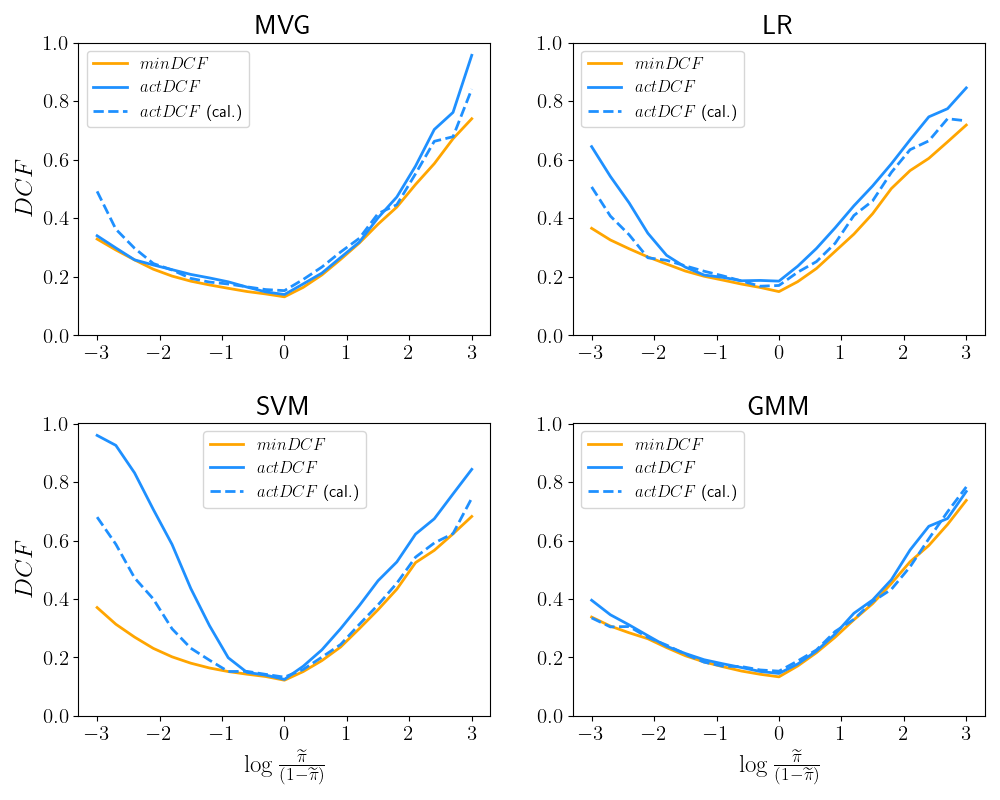
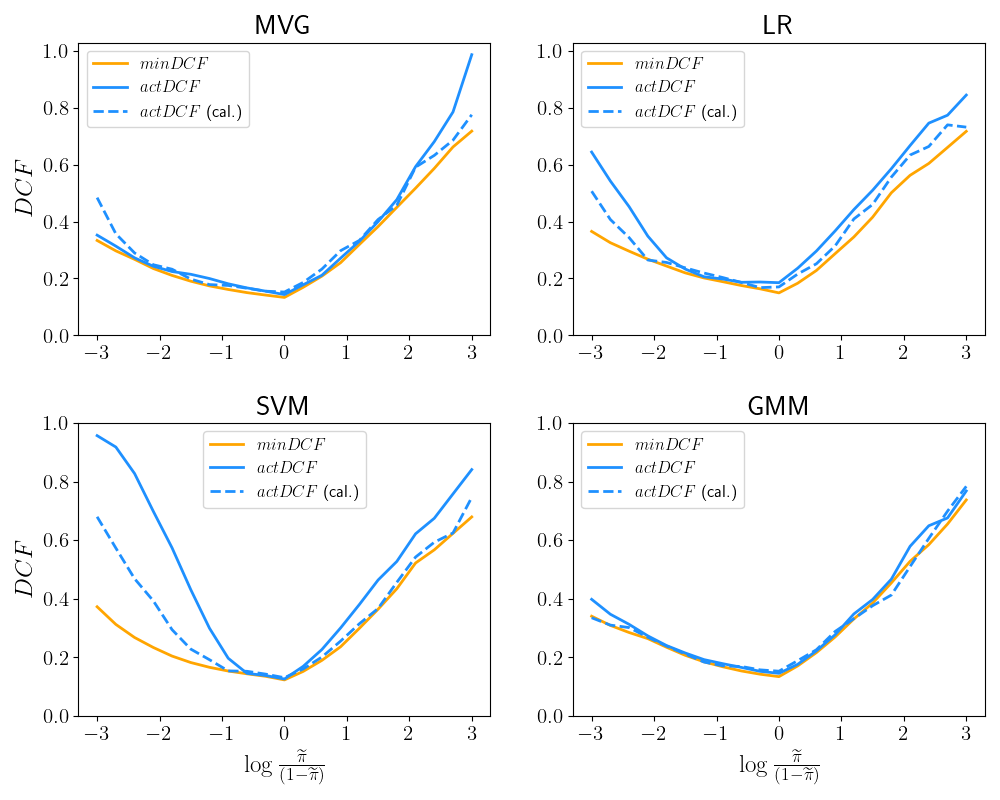
Fixed bayes error plots

diff --git a/utils/plot_utils.py b/utils/plot_utils.py
@@ -731,7 +731,7 @@ def bayes_error_plots2(classifiers, after=False):
     fig.tight_layout()
     fig.subplots_adjust(hspace=0.3, wspace=0.2)
     fig.savefig(fname=f"outputs/bayes_error_plots/bep_{fname}")
-    plt.show()
+    fig.show()
 
 
 def plot_lambda_evaluation():
@@ -1041,41 +1041,201 @@ def plot_tuningGMM_evaluation():
         "ytick.labelsize": 20,
     })
 
-    fig, axs = plt.subplots(3, 2)
-    fig.set_size_inches(12, 10)
+    fig1, axs1 = plt.subplots(3, 2)
+    fig1.set_size_inches(12, 10)
+
+    fig2, axs2 = plt.subplots(3, 2)
+    fig2.set_size_inches(12, 10)
+
+    y = np.arange(0.0, 1.1, 0.2)
+
+    axs = [axs1, axs2]
+
+    for i, (variant, m) in enumerate(itertools.product(variants, m_values)):
+        for j, (p, r) in enumerate(itertools.product(pis, raw)):
+            pp = '' if p == 0.5 else "_pi" + str(p).replace('.', '-')
+            DCFs = np.load(f"../simulations/GMM/GMM_rawFeature-{r}_PCA{m}_{variant}{pp}.npy")
+            DCFs_evaluation = np.load(f"../simulations/evaluation/GMM/GMM_rawFeature-{r}_PCA{m}_{variant}_pi{str(p).replace('.', '-')}.npy")
+            label = r"$\widetilde{\pi}=$" + f"{p}, {'raw' if r else 'gau'}"
+            axs[int(r)][i // 2, i % 2].plot(components_values, DCFs, label=label, color=colors6[j], linewidth=3)
+            axs[int(r)][i // 2, i % 2].plot(components_values, DCFs_evaluation, linestyle="dashed", label=label+"(eval.)", color=colors6[j], linewidth=3)
+            axs[int(r)][i // 2, i % 2].set_xscale('log', base=2)
+            axs[int(r)][i // 2, i % 2].set_xticks(components_values)
+            axs[int(r)][i // 2, i % 2].set_yticks(y)
+            if i // 2 == 2:
+                axs[int(r)][i // 2, i % 2].set_xlabel("Number of components")
+            if i % 2 == 0:
+                axs[int(r)][i // 2, i % 2].set_ylabel(r"$DCF$")
+            v = 'tied full-cov' if variant == 'tied' else variant
+
+            pca = f"PCA ($m={m}$)" if m is not None else "no PCA"
+            axs[int(r)][i // 2, i % 2].set_title(rf"{v}, {pca}", size=20)
+
+        # axs[i // 2, i % 2].legend(loc='upper right', framealpha=0.5)
+
+    fig1.tight_layout()
+    fig1.show()
+    fig1.savefig(fname="../outputs/evaluation/tuning_GMM2_gau", dpi=180)
+
+    fig2.tight_layout()
+    fig2.show()
+    fig2.savefig(fname="../outputs/evaluation/tuning_GMM2_raw", dpi=180)
+
+    label_params1 = axs1[0, 0].get_legend_handles_labels()
+    figl1, axl1 = plt.subplots(figsize=(6.5, 10))
+    axl1.axis(False)
+    axl1.legend(*label_params1, loc="center", bbox_to_anchor=(0.5, 0.5), prop={"size": 40})
+    figl1.show()
+    figl1.savefig(fname="../outputs/evaluation/tuning_GMM_legend_gau")
+
+    label_params2 = axs2[0, 0].get_legend_handles_labels()
+    figl2, axl2 = plt.subplots(figsize=(6.5, 10))
+    axl2.axis(False)
+    axl2.legend(*label_params2, loc="center", bbox_to_anchor=(0.5, 0.5), prop={"size": 40})
+    figl2.show()
+    figl2.savefig(fname="../outputs/evaluation/tuning_GMM_legend_raw")
+
+
+def plot_tuningGMM_evaluation3():
+    variants = ['full-cov', 'diag', 'tied']
+    raw = [True, False]
+    m_values = [7]
+    pis = [0.5, 0.1, 0.9]
+    components_values = [2 ** i for i in range(9)]
+    plt.rcParams.update({
+        "text.usetex": True,
+        "font.family": "sans-serif",
+        "font.sans-serif": ["Computer Modern Serif"],
+        "axes.titlesize": 30,
+        "axes.labelsize": 20,
+        "legend.fontsize": 20,
+        "xtick.labelsize": 20,
+        "ytick.labelsize": 20,
+    })
+
+    fig1, axs = plt.subplots(3, 2)
+    fig1.set_size_inches(12, 10)
+
     y = np.arange(0.0, 1.1, 0.2)
 
     for i, (variant, m) in enumerate(itertools.product(variants, m_values)):
         for j, (p, r) in enumerate(itertools.product(pis, raw)):
             pp = '' if p == 0.5 else "_pi" + str(p).replace('.', '-')
             DCFs = np.load(f"../simulations/GMM/GMM_rawFeature-{r}_PCA{m}_{variant}{pp}.npy")
-            DCFs_evaluation = np.load(f"../simulations/evaluation/GMM/GMM_rawFeature-{r}_PCA{m}_{variant}{pp}.npy")
-            label = r"$\widetilde{\pi}=$" + f"{p}, {'raw' if r else 'gau'}"
-            axs[i // 2, i % 2].plot(components_values, DCFs, label=label, color=colors6[j], linewidth=3)
-            axs[i // 2, i % 2].plot(components_values, DCFs_evaluation, linestyle="dashed", label=label+"(eval.)", color=colors6[j], linewidth=3)
-            axs[i // 2, i % 2].set_xscale('log', base=2)
-            axs[i // 2, i % 2].set_xticks(components_values)
-            axs[i // 2, i % 2].set_yticks(y)
+            DCFs_evaluation = np.load(f"../simulations/evaluation/GMM/GMM_rawFeature-{r}_PCA{m}_{variant}_pi{str(p).replace('.', '-')}.npy")
+            label = r"$\widetilde{\pi}=$" + f"{p} "
+            axs[i, 1-int(r)].plot(components_values, DCFs, label=label, color=colors3[j//2], linewidth=3)
+            axs[i, 1-int(r)].plot(components_values, DCFs_evaluation, linestyle="dashed", label=label+"(eval.)", color=colors3[j//2], linewidth=3)
+            axs[i, 1-int(r)].set_xscale('log', base=2)
+            axs[i, 1-int(r)].set_xticks(components_values)
+            axs[i, 1-int(r)].set_yticks(y)
             if i // 2 == 2:
-                axs[i // 2, i % 2].set_xlabel("Number of components")
-
+                axs[i, 1-int(r)].set_xlabel("Number of components")
+            if i % 2 == 0:
+                axs[i, 1-int(r)].set_ylabel(r"$DCF$")
             v = 'tied full-cov' if variant == 'tied' else variant
 
             pca = f"PCA ($m={m}$)" if m is not None else "no PCA"
-            axs[i // 2, i % 2].set_title(rf"{v}, {pca}", size=20)
+            axs[i, 1-int(r)].set_title(rf"{v}, {pca}, {'raw' if r else 'gau'}", size=20)
 
         # axs[i // 2, i % 2].legend(loc='upper right', framealpha=0.5)
 
-    fig.tight_layout()
-    # plt.show()
-    fig.savefig(fname="../outputs/evaluation/tuning_GMM2", dpi=180)
+    fig1.tight_layout()
+    fig1.show()
+    fig1.savefig(fname="../outputs/evaluation/tuning_GMM2_PCA7", dpi=180)
 
-    label_params = axs[0, 0].get_legend_handles_labels()
-    figl, axl = plt.subplots(figsize=(6.5, 5))
-    axl.axis(False)
-    axl.legend(*label_params, loc="center", bbox_to_anchor=(0.5, 0.5), prop={"size": 40})
-    # figl.show()
-    figl.savefig(fname="../outputs/evaluation/tuning_GMM_legend")
+    label_params1 = axs[0, 0].get_legend_handles_labels()
+    figl1, axl1 = plt.subplots(figsize=(5.5, 5.2))
+    axl1.axis(False)
+    axl1.legend(*label_params1, loc="center", bbox_to_anchor=(0.5, 0.5), prop={"size": 40})
+    figl1.show()
+    figl1.savefig(fname="../outputs/evaluation/tuning_GMM_legend_PCA7")
+
+
+def plot_tuningGMM_evaluation2():
+    variants = ['full-cov', 'diag', 'tied']
+    raw = [True, False]
+    m_values = [None, 7]
+    pis = [0.5, 0.1, 0.9]
+    components_values = [2 ** i for i in range(9)]
+    plt.rcParams.update({
+        "text.usetex": True,
+        "font.family": "sans-serif",
+        "font.sans-serif": ["Computer Modern Serif"],
+        "axes.titlesize": 30,
+        "axes.labelsize": 20,
+        "legend.fontsize": 20,
+        "xtick.labelsize": 20,
+        "ytick.labelsize": 20,
+    })
+
+    fig1, axs1 = plt.subplots(3, 2)
+    fig1.set_size_inches(12, 10)
+
+    fig2, axs2 = plt.subplots(3, 2)
+    fig2.set_size_inches(12, 10)
+
+    fig3, axs3 = plt.subplots(3, 2)
+    fig3.set_size_inches(12, 10)
+
+    y = np.arange(0.0, 1.1, 0.2)
+
+    axs = [axs1, axs2, axs3]
+
+    for i, (variant, m) in enumerate(itertools.product(variants, m_values)):
+        for j, (p, r) in enumerate(itertools.product(pis, raw)):
+            pp = '' if p == 0.5 else "_pi" + str(p).replace('.', '-')
+            DCFs = np.load(f"../simulations/GMM/GMM_rawFeature-{r}_PCA{m}_{variant}{pp}.npy")
+            DCFs_evaluation = np.load(f"../simulations/evaluation/GMM/GMM_rawFeature-{r}_PCA{m}_{variant}_pi{str(p).replace('.', '-')}.npy")
+            label = r"$\widetilde{\pi}=$" + f"{p}, {'raw' if r else 'gau'}"
+            axs[pis.index(p)][i // 2, i % 2].plot(components_values, DCFs, label=label, color=colors6[j], linewidth=3)
+            axs[pis.index(p)][i // 2, i % 2].plot(components_values, DCFs_evaluation, linestyle="dashed", label=label+"(eval.)", color=colors6[j], linewidth=3)
+            axs[pis.index(p)][i // 2, i % 2].set_xscale('log', base=2)
+            axs[pis.index(p)][i // 2, i % 2].set_xticks(components_values)
+            axs[pis.index(p)][i // 2, i % 2].set_yticks(y)
+            if i // 2 == 2:
+                axs[pis.index(p)][i // 2, i % 2].set_xlabel("Number of components")
+            if i % 2 == 0:
+                axs[pis.index(p)][i // 2, i % 2].set_ylabel(r"$DCF$")
+            v = 'tied full-cov' if variant == 'tied' else variant
+
+            pca = f"PCA ($m={m}$)" if m is not None else "no PCA"
+            axs[pis.index(p)][i // 2, i % 2].set_title(rf"{v}, {pca}", size=20)
+
+        # axs[i // 2, i % 2].legend(loc='upper right', framealpha=0.5)
+
+    fig1.tight_layout()
+    fig1.show()
+    fig1.savefig(fname="../outputs/evaluation/tuning_GMM2_pi0-5", dpi=180)
+
+    fig2.tight_layout()
+    fig2.show()
+    fig2.savefig(fname="../outputs/evaluation/tuning_GMM2_pi0-1", dpi=180)
+
+    fig3.tight_layout()
+    fig3.show()
+    fig3.savefig(fname="../outputs/evaluation/tuning_GMM2_pi0-9", dpi=180)
+
+    label_params1 = axs1[0, 0].get_legend_handles_labels()
+    figl1, axl1 = plt.subplots(figsize=(6.5, 10))
+    axl1.axis(False)
+    axl1.legend(*label_params1, loc="center", bbox_to_anchor=(0.5, 0.5), prop={"size": 40})
+    figl1.show()
+    figl1.savefig(fname="../outputs/evaluation/tuning_GMM_legend_pi0-5")
+
+    label_params2 = axs2[0, 0].get_legend_handles_labels()
+    figl2, axl2 = plt.subplots(figsize=(6.5, 10))
+    axl2.axis(False)
+    axl2.legend(*label_params2, loc="center", bbox_to_anchor=(0.5, 0.5), prop={"size": 40})
+    figl2.show()
+    figl2.savefig(fname="../outputs/evaluation/tuning_GMM_legend_pi0-1")
+
+    label_params3 = axs3[0, 0].get_legend_handles_labels()
+    figl3, axl3 = plt.subplots(figsize=(6.5, 10))
+    axl3.axis(False)
+    axl3.legend(*label_params3, loc="center", bbox_to_anchor=(0.5, 0.5), prop={"size": 40})
+    figl3.show()
+    figl3.savefig(fname="../outputs/evaluation/tuning_GMM_legend_pi0-9")
 
 
 if __name__ == '__main__':
@@ -1092,8 +1252,13 @@ if __name__ == '__main__':
         "figure.dpi": 180
     })
 
-    # colors8 = distinctipy.get_colors(8, pastel_factor=1, colorblind_type='Deuteranomaly')
-    # print(colors8)
+    # colors3 = distinctipy.get_colors(3, pastel_factor=1, colorblind_type='Deuteranomaly')
+    # print(colors3)
+
+    colors3 = [(0.5348547306212659, 0.5139339239248601, 0.5268686469375292),
+               (0.9927895402526214, 0.7352147015471453, 0.5581049747178046),
+               (0.524907193614528, 0.7671952975947081, 0.976588025007669)]
+
     colors6 = [(0.48702807223549177, 0.4242891647177821, 0.9480975665882982),
                (0.9146761531779931, 0.4970424422244128, 0.41460357267068376),
                (0.843602824944377, 0.6031154951690304, 0.9802318468625552),
@@ -1115,9 +1280,9 @@ if __name__ == '__main__':
 
     # plot_tuningLinearSVMUnbalanced_evaluation()
     # plot_tuning_LinearSVMBalanced_evaluation()
-    plot_tuningPolySVM_evaluation()
+    # plot_tuningPolySVM_evaluation()
     # plot_tuningRBFSVM_evaluation()
     # plot_lambda_evaluation()
-
+    plot_tuningGMM_evaluation3()
     # plot_tuningGMM2()
     pass

diff --git a/main.py b/main.py
@@ -20,7 +20,7 @@ from simulations.tuning import tuning_parameters_LinearSVMUnbalanced_evaluation,
     tuning_parameters_RBFSVM_evaluation, tuning_componentsGMM_evaluation, tuning_lambda_evaluation
 from utils.metrics_utils import bayes_error_plots_data
 from utils.plot_utils import create_scatterplots, bayes_error_plots, plot_lambda_evaluation, create_heatmap2, \
-    plot_tuningPolySVM_evaluation, plot_tuningRBFSVM_evaluation, plot_tuningGMM_evaluation
+    plot_tuningPolySVM_evaluation, plot_tuningRBFSVM_evaluation, plot_tuningGMM_evaluation, bayes_error_plots2
 from utils.utils import load_dataset
 
 
@@ -127,35 +127,37 @@ def main():
 
     # =============== BAYES ERROR PLOT ==================
     classifiers = [MVG, LR, SVM, GMM]
-    # args = [{"raw": False,
-    #          "m": None,
-    #          "variant": "tied"},
-    #         {"raw": False,
-    #          "m": None,
-    #          "lbd": lbd,
-    #          "pi_T": 0.5},
-    #         {"raw": False,
-    #          "m": None,
-    #          "k": K_LinearB,
-    #          "c": C_LinearB,
-    #          "pi_T": 0.5,
-    #          "balanced": True,
-    #          "kernel_type": "poly",
-    #          "kernel_params": (1, 0)},
-    #         {"raw": False,
-    #          "m": None,
-    #          "G": g,
-    #          "type": "full-cov",
-    #          "alpha": 0.1,
-    #          "psi": 0.1}]
-    #
-    # for i, classifier in enumerate(classifiers):
-    #     bayes_error_plots_data(training_data, training_labels, classifier, **args[i])
+    args = [{"raw": False,
+             "m": 7,
+             "variant": "tied"},
+            {"raw": False,
+             "m": 7,
+             "lbd": lbd,
+             "pi_T": 0.5},
+            {"raw": False,
+             "m": 7,
+             "k": K_LinearB,
+             "c": C_LinearB,
+             "pi_T": 0.5,
+             "balanced": True,
+             "kernel_type": "poly",
+             "kernel_params": (1, 0)},
+            {"raw": False,
+             "m": 7,
+             "G": g,
+             "type": "full-cov",
+             "alpha": 0.1,
+             "psi": 0.1}]
+
+    for i, classifier in enumerate(classifiers):
+        print(f"{'*'*30} bep {i+1}/{len(classifiers)} {'*'*30}")
+        bayes_error_plots_data(training_data, training_labels, classifier, **args[i])
     #
     # for i, classifier in enumerate(classifiers):
     #     bayes_error_plots(classifier)
-
-    # bayes_error_plots2(classifiers, after=True)
+    print(f"plotting...")
+    for a in [True, False]:
+        bayes_error_plots2(classifiers, after=a)
 
     # =============== EXPERIMENTAL RESULT ===============
     # print("============= MVG EVALUATION =============")

diff --git a/utils/metrics_utils.py b/utils/metrics_utils.py
@@ -1,5 +1,6 @@
 import numpy as np
 
+from classifiers.LR import calibrateScores
 from utils.matrix_utils import vrow
 from utils.utils import k_fold, splitData_SingleFold
 
